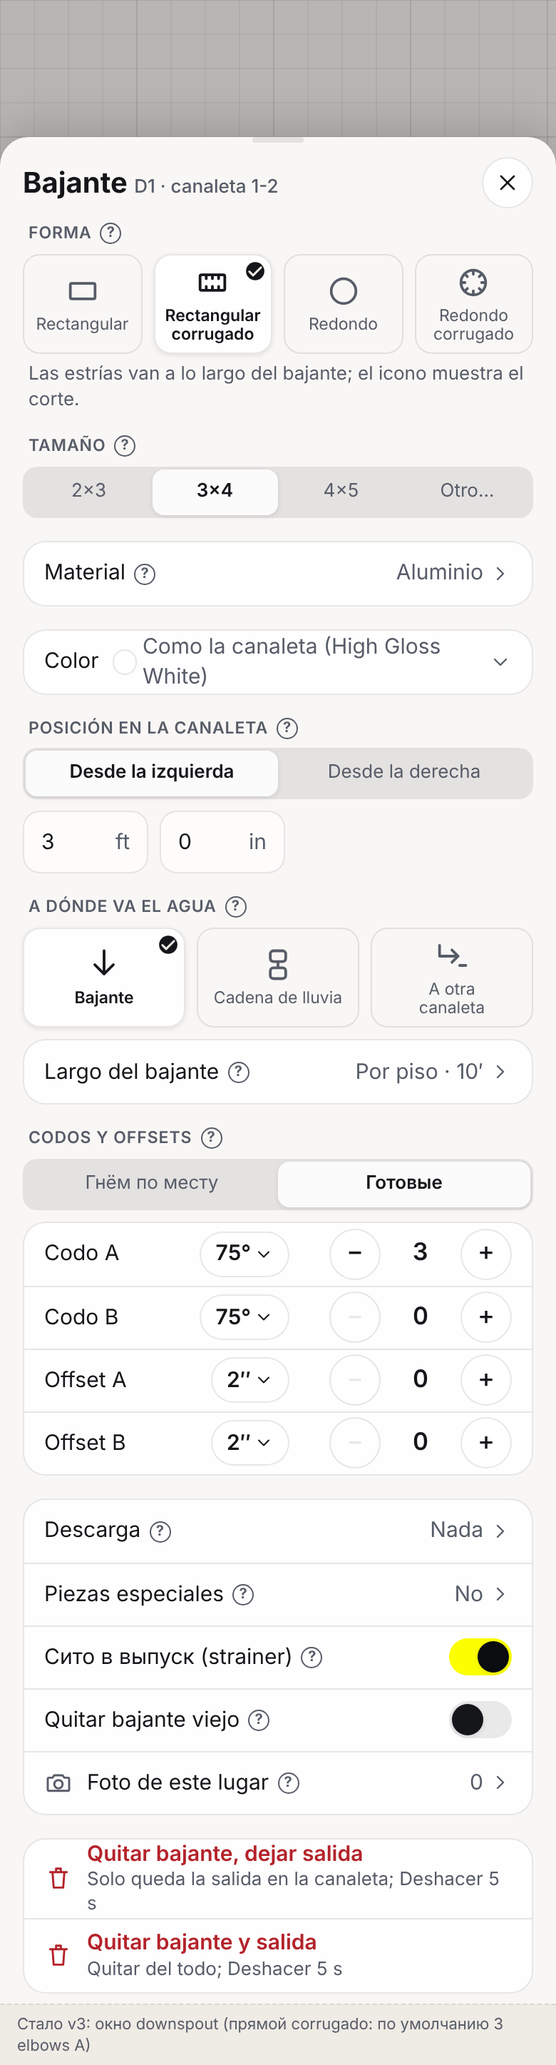
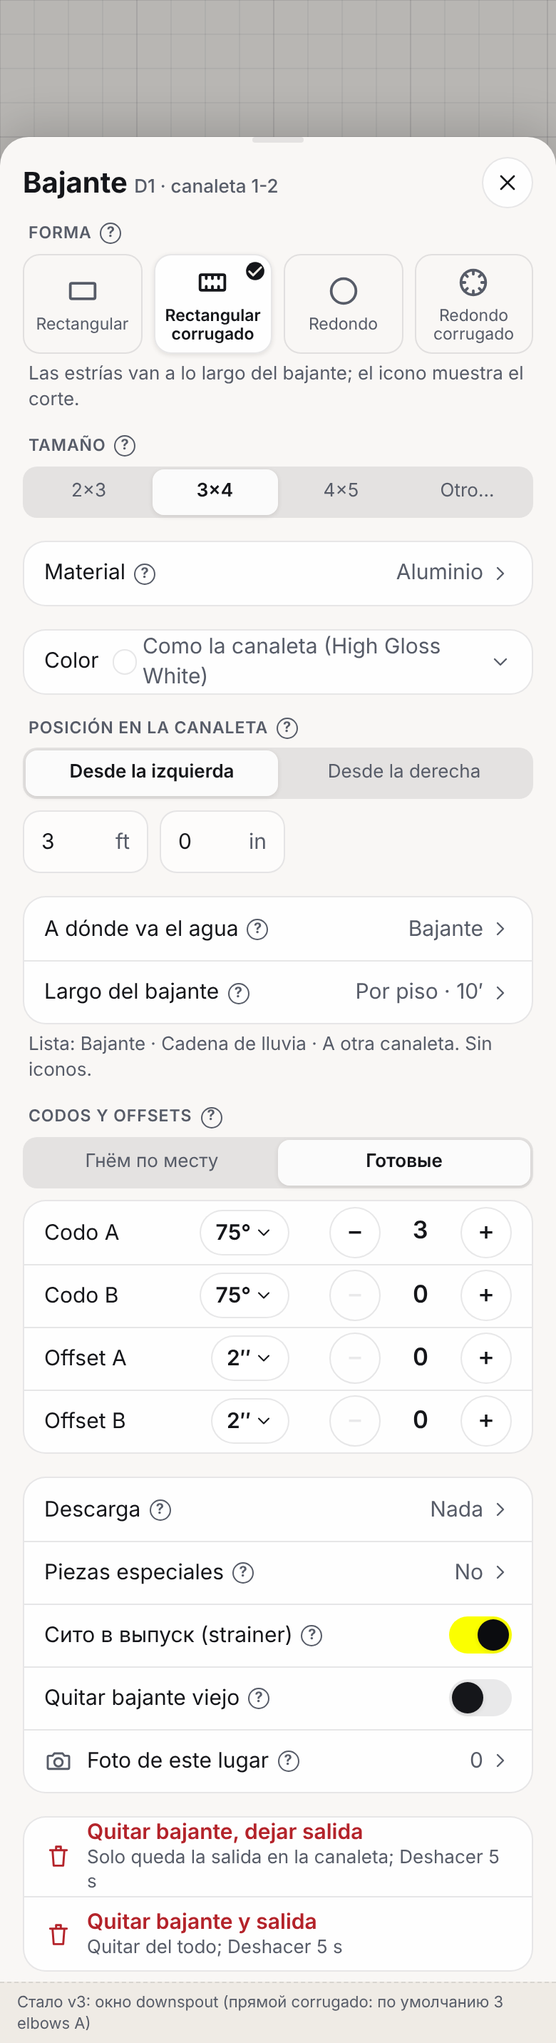
docs(gutters): окно Downspout — «Куда уходит вода» списком без значков (основатель 16.11 ~06:45), §3.15
Claude-Session: https://claude.ai/code/session_015CqH66DzhVPrbpJt18Umgo

diff --git a/docs/prototypes/gutters-windows/i18n.js b/docs/prototypes/gutters-windows/i18n.js
@@ -1,7 +1,7 @@
 // Перевод прототипа (EN/ES): термины отрасли — downspout, elbow A/B, offset, leader head, wedge. ?l=en|es
 window.I18N={
-en:{"Прибавка на этот угол: ":"Allowance for this corner: ","— уже в закупке рулона, отдельно не добавляйте. Запас рулона: 1 линия +3 ft, 2 и больше +6 ft (настройки).":"— already in the coil order, don't add it yourself. Coil waste: 1 run +3 ft, 2 or more +6 ft (settings).","Снять старый downspout":"Remove old downspout","Вид":"Type","Демонтаж":"Tear-off","Снять старый gutter":"Remove old gutter","Была защита — снять":"Remove old guard","Список: Нет · Микросетка · Перфорированный · На защёлке · Откидная · Сетка на раме · Козырёк. Пены и ёршиков нет.":"List: None · Micro-mesh · Perforated · Snap-in · Hinged · Framed screen · Reverse curve. No foam or brush.","Downspout":"Downspout","gutter":"gutter","Gutter":"Gutter","Форма":"Shape","Прямой ребристый":"Rect. corrugated","Прямой":"Rectangular","Круглый ребристый":"Round corrugated","Круглый":"Round","ребристый":"corrugated","Рёбра — вдоль downspout; на значке — вид в разрезе.":"Ribs run along the downspout; the icon shows a cross-section.","Размер":"Size","Другой…":"Custom…","Материал":"Material","Алюминий":"Aluminum","Медь":"Copper","Цвет":"Color","Как у gutter (High Gloss White)":"Same as gutter (High Gloss White)","Где на gutter":"Position on gutter","От левого end cap":"From left end cap","От правой":"From right","Куда уходит вода":"Where water goes","Цепь":"Rain chain","В другой":"Into another","Длина downspout":"Downspout length","По этажу":"By story","Elbows и офсеты":"Elbows and offsets","Гнём по месту":"Bent on site","Сито в выпуск (strainer)":"Outlet strainer","Защита от листьев (gutter guard)":"Gutter guard","Сетка":"Screen","Микросетка":"Micro-mesh","Защёлка":"Snap-in","Сколько закрыть":"Covered length","Весь gutter":"Whole gutter","Пайка меди":"Copper soldering","Готовые":"Pre-made","Elbow A":"Elbow A","Elbow B":"Elbow B","Офсет A":"Offset A","Офсет B":"Offset B","Elbow":"Elbow","Офсет":"Offset","Низ downspout":"Discharge","Ничего":"None","Редкие детали":"Specialty fittings","Нет":"None","Фото этого места":"Photo of this spot","Удалить downspout, оставить выпуск":"Remove downspout, keep outlet","Останется только выпуск в gutter; «Отменить» 5 с":"Only the outlet stays in the gutter; Undo for 5 s","Удалить downspout и выпуск":"Remove downspout and outlet","Убрать совсем; «Отменить» 5 с":"Remove completely; Undo for 5 s","Профиль":"Profile","Полу-":"Half-","круглый":"round","Значки — вид в разрезе.":"Icons show cross-sections.","Этаж":"Story","Длина":"Length","Шкала":"Tape","На рисунке 21′ 4″, введено 21′ 8½″ — в расчёт идёт введённое.":"Drawn 21′ 4″, entered 21′ 8½″ — the entered length is used.","Крепление":"Mounting","Крепится к":"Mounted to","Доске (fascia)":"Fascia","Кронштейны":"Hangers","Подходящие кронштейны":"Suggested hangers","От этого зависят кронштейны.":"This decides the hangers.","Лобовая доска (fascia)":"Fascia board","обычный случай: на доску по краю крыши":"the usual case: on the board at the roof edge","Стропила (rafter tail)":"Rafter tails","доски нет — на концы стропил":"no fascia — on the rafter ends","Под кровлю (roof strap)":"Roof strap","доски нет — лентой под кровельный материал":"no fascia — strap under the roofing","Карниз (crown moulding)":"Crown molding","на фигурный карниз":"on decorative molding","доска стоит под углом":"the board is angled","Наклонная доска":"Angled fascia","Клиновая подкладка (wedge)?":"Use a wedge?","Кронштейны сами не меняем — предлагаем.":"We suggest hangers, we never change them for you.","Ничего":"None","Удалить gutter":"Delete gutter","Назад":"Back","Что ставим у земли, где вода выходит из downspout.":"What goes at the ground where the water comes out.","downspout заканчивается elbow":"ends with an elbow","Удлинитель":"Extension","жёсткий, отводит воду от стены":"rigid, carries water away from the wall","Гибкий рукав":"Flex extension","гофрированный, складывается":"corrugated, folds","Откидной (flip-up)":"Flip-up","поднимается, чтобы не мешал":"lifts out of the way","Отбойная плита (splash block)":"Splash block","лоток под elbow":"tray under the elbow","Ввод в дренаж (drain adapter)":"Drain adapter","переходник в дренаж в земле":"into the underground drain","Pop-up emitter":"Pop-up emitter","выпуск в газоне, открывается водой":"opens in the lawn with water","Бочка":"Rain barrel","вода в бочку для полива":"water into a barrel","Чугунный boot":"Cast iron boot","коммерческий, в землю":"commercial, into the ground","На нижнюю крышу":"Onto lower roof","вода стекает на крышу ниже":"water runs onto the roof below","Ставятся по случаю. Нужно — поставьте число.":"Used now and then. Set a number when needed.","Переходное elbow A→B":"Transition elbow A→B","поворот и вбок одной деталью":"turn and side in one piece","Y-тройник":"Wye","два downspout в один":"two downspouts into one","Воронка (funnel)":"Funnel","сверху downspout под выпуском":"on top of the downspout under the outlet","Редуктор":"Reducer","переход на меньший размер downspout":"to a smaller downspout size","Cleanout":"Cleanout","люк для прочистки downspout":"opening to clean the downspout","Отвод в бочку (diverter)":"Rain diverter","часть воды в бочку":"part of the water to a barrel","Сито в выпуск (strainer)":"Outlet strainer","сетка, чтобы листья не забивали":"keeps leaves out","Leader head (conductor head)":"Leader head","короб-воронка на стене сверху":"box at the top on the wall","Стена":"Wall","Дерево":"Wood","Кирпич / блок":"Brick / block","Другое":"Other","Креплений":"Straps","правило: 2 на 10 ft downspout":"rule: 2 per 10 ft of downspout","Измерить угол":"Measure angle","1. От вершины угла (где сходятся доски) отмерьте 24″ по каждой стороне и поставьте метки. 2. Рулеткой измерьте расстояние между метками — это C.":"1. From the corner (where the boards meet) measure 24″ along each side and mark. 2. Tape the distance between the marks — that is C.","вершина угла":"corner","метка":"mark","C — рулеткой":"C — with a tape","угол = arccos((A² + B² − C²) / (2·A·B))":"angle = arccos((A² + B² − C²) / (2·A·B))","Пример: A = 24″, B = 24″, C = 33 15⁄16″ →":"Example: A = 24″, B = 24″, C = 33 15⁄16″ →","C — между метками":"C — between the marks","A и B":"A and B","24″ и 24″ — изменить":"24″ and 24″ — change","Угол":"Angle","Поставить угол 90°":"Set angle 90°","D1 · gutter 1-2":"D1 · gutter 1-2"},
-es:{"Прибавка на этот угол: ":"Margen para esta esquina: ","— уже в закупке рулона, отдельно не добавляйте. Запас рулона: 1 линия +3 ft, 2 и больше +6 ft (настройки).":"— ya incluido en el pedido de bobina, no lo agregue. Reserva de bobina: 1 tramo +3 ft, 2 o más +6 ft (ajustes).","Снять старый downspout":"Quitar bajante viejo","Вид":"Tipo","Демонтаж":"Desmontaje","Снять старый gutter":"Quitar canaleta vieja","Была защита — снять":"Quitar protección vieja","Микросетка":"Micromalla","Список: Нет · Микросетка · Перфорированный · На защёлке · Откидная · Сетка на раме · Козырёк. Пены и ёршиков нет.":"Lista: Ninguna · Micromalla · Perforada · A presión · Abatible · Malla con marco · Curva inversa. Sin espuma ni cepillo.","Downspout":"Bajante","gutter":"canaleta","Gutter":"Canaleta","Форма":"Forma","Прямой ребристый":"Rect. corrugado","Прямой":"Rectangular","Круглый ребристый":"Redondo corrugado","Круглый":"Redondo","ребристый":"corrugado","Рёбра — вдоль downspout; на значке — вид в разрезе.":"Las estrías van a lo largo del bajante; el icono muestra el corte.","Размер":"Tamaño","Другой…":"Otro…","Материал":"Material","Алюминий":"Aluminio","Медь":"Cobre","Цвет":"Color","Как у gutter (High Gloss White)":"Como la canaleta (High Gloss White)","Где на gutter":"Posición en la canaleta","От левого end cap":"Desde la izquierda","От правой":"Desde la derecha","Куда уходит вода":"A dónde va el agua","Цепь":"Cadena de lluvia","В другой":"A otra","Длина downspout":"Largo del bajante","По этажу":"Por piso","Elbows и офсеты":"Codos y offsets","Elbow A":"Codo A","Elbow B":"Codo B","Офсет A":"Offset A","Офсет B":"Offset B","Низ downspout":"Descarga","Ничего":"Nada","Редкие детали":"Piezas especiales","Нет":"No","Фото этого места":"Foto de este lugar","Удалить downspout, оставить выпуск":"Quitar bajante, dejar salida","Останется только выпуск в gutter; «Отменить» 5 с":"Solo queda la salida en la canaleta; Deshacer 5 s","Удалить downspout и выпуск":"Quitar bajante y salida","Убрать совсем; «Отменить» 5 с":"Quitar del todo; Deshacer 5 s","D1 · gutter 1-2":"D1 · canaleta 1-2"}
+en:{"Список: Downspout · Rain chain · В другой gutter. Без значков (основатель 16.11).":"List: Downspout · Rain chain · Into another gutter. No icons.","Прибавка на этот угол: ":"Allowance for this corner: ","— уже в закупке рулона, отдельно не добавляйте. Запас рулона: 1 линия +3 ft, 2 и больше +6 ft (настройки).":"— already in the coil order, don't add it yourself. Coil waste: 1 run +3 ft, 2 or more +6 ft (settings).","Снять старый downspout":"Remove old downspout","Вид":"Type","Демонтаж":"Tear-off","Снять старый gutter":"Remove old gutter","Была защита — снять":"Remove old guard","Список: Нет · Микросетка · Перфорированный · На защёлке · Откидная · Сетка на раме · Козырёк. Пены и ёршиков нет.":"List: None · Micro-mesh · Perforated · Snap-in · Hinged · Framed screen · Reverse curve. No foam or brush.","Downspout":"Downspout","gutter":"gutter","Gutter":"Gutter","Форма":"Shape","Прямой ребристый":"Rect. corrugated","Прямой":"Rectangular","Круглый ребристый":"Round corrugated","Круглый":"Round","ребристый":"corrugated","Рёбра — вдоль downspout; на значке — вид в разрезе.":"Ribs run along the downspout; the icon shows a cross-section.","Размер":"Size","Другой…":"Custom…","Материал":"Material","Алюминий":"Aluminum","Медь":"Copper","Цвет":"Color","Как у gutter (High Gloss White)":"Same as gutter (High Gloss White)","Где на gutter":"Position on gutter","От левого end cap":"From left end cap","От правой":"From right","Куда уходит вода":"Where water goes","Цепь":"Rain chain","В другой":"Into another","Длина downspout":"Downspout length","По этажу":"By story","Elbows и офсеты":"Elbows and offsets","Гнём по месту":"Bent on site","Сито в выпуск (strainer)":"Outlet strainer","Защита от листьев (gutter guard)":"Gutter guard","Сетка":"Screen","Микросетка":"Micro-mesh","Защёлка":"Snap-in","Сколько закрыть":"Covered length","Весь gutter":"Whole gutter","Пайка меди":"Copper soldering","Готовые":"Pre-made","Elbow A":"Elbow A","Elbow B":"Elbow B","Офсет A":"Offset A","Офсет B":"Offset B","Elbow":"Elbow","Офсет":"Offset","Низ downspout":"Discharge","Ничего":"None","Редкие детали":"Specialty fittings","Нет":"None","Фото этого места":"Photo of this spot","Удалить downspout, оставить выпуск":"Remove downspout, keep outlet","Останется только выпуск в gutter; «Отменить» 5 с":"Only the outlet stays in the gutter; Undo for 5 s","Удалить downspout и выпуск":"Remove downspout and outlet","Убрать совсем; «Отменить» 5 с":"Remove completely; Undo for 5 s","Профиль":"Profile","Полу-":"Half-","круглый":"round","Значки — вид в разрезе.":"Icons show cross-sections.","Этаж":"Story","Длина":"Length","Шкала":"Tape","На рисунке 21′ 4″, введено 21′ 8½″ — в расчёт идёт введённое.":"Drawn 21′ 4″, entered 21′ 8½″ — the entered length is used.","Крепление":"Mounting","Крепится к":"Mounted to","Доске (fascia)":"Fascia","Кронштейны":"Hangers","Подходящие кронштейны":"Suggested hangers","От этого зависят кронштейны.":"This decides the hangers.","Лобовая доска (fascia)":"Fascia board","обычный случай: на доску по краю крыши":"the usual case: on the board at the roof edge","Стропила (rafter tail)":"Rafter tails","доски нет — на концы стропил":"no fascia — on the rafter ends","Под кровлю (roof strap)":"Roof strap","доски нет — лентой под кровельный материал":"no fascia — strap under the roofing","Карниз (crown moulding)":"Crown molding","на фигурный карниз":"on decorative molding","доска стоит под углом":"the board is angled","Наклонная доска":"Angled fascia","Клиновая подкладка (wedge)?":"Use a wedge?","Кронштейны сами не меняем — предлагаем.":"We suggest hangers, we never change them for you.","Ничего":"None","Удалить gutter":"Delete gutter","Назад":"Back","Что ставим у земли, где вода выходит из downspout.":"What goes at the ground where the water comes out.","downspout заканчивается elbow":"ends with an elbow","Удлинитель":"Extension","жёсткий, отводит воду от стены":"rigid, carries water away from the wall","Гибкий рукав":"Flex extension","гофрированный, складывается":"corrugated, folds","Откидной (flip-up)":"Flip-up","поднимается, чтобы не мешал":"lifts out of the way","Отбойная плита (splash block)":"Splash block","лоток под elbow":"tray under the elbow","Ввод в дренаж (drain adapter)":"Drain adapter","переходник в дренаж в земле":"into the underground drain","Pop-up emitter":"Pop-up emitter","выпуск в газоне, открывается водой":"opens in the lawn with water","Бочка":"Rain barrel","вода в бочку для полива":"water into a barrel","Чугунный boot":"Cast iron boot","коммерческий, в землю":"commercial, into the ground","На нижнюю крышу":"Onto lower roof","вода стекает на крышу ниже":"water runs onto the roof below","Ставятся по случаю. Нужно — поставьте число.":"Used now and then. Set a number when needed.","Переходное elbow A→B":"Transition elbow A→B","поворот и вбок одной деталью":"turn and side in one piece","Y-тройник":"Wye","два downspout в один":"two downspouts into one","Воронка (funnel)":"Funnel","сверху downspout под выпуском":"on top of the downspout under the outlet","Редуктор":"Reducer","переход на меньший размер downspout":"to a smaller downspout size","Cleanout":"Cleanout","люк для прочистки downspout":"opening to clean the downspout","Отвод в бочку (diverter)":"Rain diverter","часть воды в бочку":"part of the water to a barrel","Сито в выпуск (strainer)":"Outlet strainer","сетка, чтобы листья не забивали":"keeps leaves out","Leader head (conductor head)":"Leader head","короб-воронка на стене сверху":"box at the top on the wall","Стена":"Wall","Дерево":"Wood","Кирпич / блок":"Brick / block","Другое":"Other","Креплений":"Straps","правило: 2 на 10 ft downspout":"rule: 2 per 10 ft of downspout","Измерить угол":"Measure angle","1. От вершины угла (где сходятся доски) отмерьте 24″ по каждой стороне и поставьте метки. 2. Рулеткой измерьте расстояние между метками — это C.":"1. From the corner (where the boards meet) measure 24″ along each side and mark. 2. Tape the distance between the marks — that is C.","вершина угла":"corner","метка":"mark","C — рулеткой":"C — with a tape","угол = arccos((A² + B² − C²) / (2·A·B))":"angle = arccos((A² + B² − C²) / (2·A·B))","Пример: A = 24″, B = 24″, C = 33 15⁄16″ →":"Example: A = 24″, B = 24″, C = 33 15⁄16″ →","C — между метками":"C — between the marks","A и B":"A and B","24″ и 24″ — изменить":"24″ and 24″ — change","Угол":"Angle","Поставить угол 90°":"Set angle 90°","D1 · gutter 1-2":"D1 · gutter 1-2"},
+es:{"Список: Downspout · Rain chain · В другой gutter. Без значков (основатель 16.11).":"Lista: Bajante · Cadena de lluvia · A otra canaleta. Sin iconos.","Прибавка на этот угол: ":"Margen para esta esquina: ","— уже в закупке рулона, отдельно не добавляйте. Запас рулона: 1 линия +3 ft, 2 и больше +6 ft (настройки).":"— ya incluido en el pedido de bobina, no lo agregue. Reserva de bobina: 1 tramo +3 ft, 2 o más +6 ft (ajustes).","Снять старый downspout":"Quitar bajante viejo","Вид":"Tipo","Демонтаж":"Desmontaje","Снять старый gutter":"Quitar canaleta vieja","Была защита — снять":"Quitar protección vieja","Микросетка":"Micromalla","Список: Нет · Микросетка · Перфорированный · На защёлке · Откидная · Сетка на раме · Козырёк. Пены и ёршиков нет.":"Lista: Ninguna · Micromalla · Perforada · A presión · Abatible · Malla con marco · Curva inversa. Sin espuma ni cepillo.","Downspout":"Bajante","gutter":"canaleta","Gutter":"Canaleta","Форма":"Forma","Прямой ребристый":"Rect. corrugado","Прямой":"Rectangular","Круглый ребристый":"Redondo corrugado","Круглый":"Redondo","ребристый":"corrugado","Рёбра — вдоль downspout; на значке — вид в разрезе.":"Las estrías van a lo largo del bajante; el icono muestra el corte.","Размер":"Tamaño","Другой…":"Otro…","Материал":"Material","Алюминий":"Aluminio","Медь":"Cobre","Цвет":"Color","Как у gutter (High Gloss White)":"Como la canaleta (High Gloss White)","Где на gutter":"Posición en la canaleta","От левого end cap":"Desde la izquierda","От правой":"Desde la derecha","Куда уходит вода":"A dónde va el agua","Цепь":"Cadena de lluvia","В другой":"A otra","Длина downspout":"Largo del bajante","По этажу":"Por piso","Elbows и офсеты":"Codos y offsets","Elbow A":"Codo A","Elbow B":"Codo B","Офсет A":"Offset A","Офсет B":"Offset B","Низ downspout":"Descarga","Ничего":"Nada","Редкие детали":"Piezas especiales","Нет":"No","Фото этого места":"Foto de este lugar","Удалить downspout, оставить выпуск":"Quitar bajante, dejar salida","Останется только выпуск в gutter; «Отменить» 5 с":"Solo queda la salida en la canaleta; Deshacer 5 s","Удалить downspout и выпуск":"Quitar bajante y salida","Убрать совсем; «Отменить» 5 с":"Quitar del todo; Deshacer 5 s","D1 · gutter 1-2":"D1 · canaleta 1-2"}
 };
 window.translatePage=function(l){const d=window.I18N[l];if(!d)return;const keys=Object.keys(d).sort((a,b)=>b.length-a.length);
 const w=document.createTreeWalker(document.body,NodeFilter.SHOW_TEXT);const ns=[];while(w.nextNode())ns.push(w.currentNode);

diff --git a/docs/prototypes/gutters-windows/index.html b/docs/prototypes/gutters-windows/index.html
@@ -141,7 +141,7 @@ if(F==='ds'||F==='ds-copper'||F==='ds-deg'||F==='ds-plain'){
  <div class="grp ${cu?'disabled':''}">${row('Цвет','',{ctrl:`<span class="v"><i style="width:18px;height:18px;border-radius:9px;background:#FFFFFF;border:1px solid var(--bd);display:inline-block"></i>${cu?'—':'Как у gutter (High Gloss White)'}${ic('cd',16)}</span>`})}</div>${cu?`<div class="note" style="margin-top:-8px">Медь, цинк и нержавейку не красят — цвет не выбирается.</div>`:''}
  ${cu?`<div class="grp">${row('Пайка меди'+qm,'7 позиций',{sub:'добавится в смету сама: припой, флюс, заклёпки…',icon:'note'})}</div>`:''}
  <div><div class="lbl">Где на gutter${qm}</div>${seg(['От левого end cap','От правой'],0)}<div style="display:flex;gap:8px;align-items:center;margin-top:8px">${fin('3','ft')}${fin('0','in')}</div></div>
- <div><div class="lbl">Куда уходит вода${qm}</div><div class="tiles c3" style="grid-template-columns:repeat(3,1fr)">${tile('down','Downspout',true)}${tile('chain','Цепь')}${tile('toGut','В другой<br>gutter')}</div><div class="grp" style="margin-top:8px">${row('Длина downspout'+qm,'По этажу · 10′')}</div></div>
+ <div><div class="grp">${row('Куда уходит вода'+qm,'Downspout')}${row('Длина downspout'+qm,'По этажу · 10′')}</div><div class="note">Список: Downspout · Rain chain · В другой gutter. Без значков (основатель 16.11).</div></div>
  <div><div class="lbl">Elbows и офсеты${qm}</div>${cu?'':`<div style="margin-bottom:8px">${seg(['Гнём по месту','Готовые'],pl?0:1)}</div>`}<div class="grp">${cu?elb('Elbow','75°',0)+elb('Офсет','2″',0):pl?elb('Elbow A','75°',2)+elb('Elbow B','75°',1)+elb('Офсет A','2″',0)+elb('Офсет B','2″',0):elb('Elbow A','75°',3)+elb('Elbow B','75°',0)+elb('Офсет A','2″',0)+elb('Офсет B','2″',0)}</div>${pl?'<div class="note">Из самого downspout: в закупку не идут. В смету — +6″ длины downspout на elbow и работа за elbow (настройка компании).</div>':''}</div>
  <div class="grp">${row('Низ downspout'+qm,'Ничего')}${row('Редкие детали'+qm,'Нет')}${row('Сито в выпуск (strainer)'+qm,'',{ctrl:'<span class="tog on"></span>'})}${row('Снять старый downspout'+qm,'',{ctrl:'<span class="tog"></span>'})}${row('Фото этого места'+qm,'0',{icon:'camera'})}</div>
  <div class="grp"><div class="row del sub">${ic('trash',20,k('badT'))}<div class="stack"><span>Удалить downspout, оставить выпуск</span><small>Останется только выпуск в gutter; «Отменить» 5 с</small></div></div><div class="row del sub">${ic('trash',20,k('badT'))}<div class="stack"><span>Удалить downspout и выпуск</span><small>Убрать совсем; «Отменить» 5 с</small></div></div></div>`)+(F==='ds-deg'?`<div class="menu" style="left:110px;top:842px"><div>30°</div><div>45°</div><div>60°</div><div style="font-weight:600">75° ${ic('check',16)}</div><div>90°</div></div>`:'')+cap(pl?'Стало v4: гладкий — elbows гнут по месту из downspout':cu?'Стало v3: круглый медный — одно «Elbow» и один «Офсет», цвет выключен':F==='ds-deg'?'Стало v2: градус elbows — выбор по нажатию на «75°»':'Стало v3: окно downspout (прямой ребристый: по умолчанию 3 elbows A)');

diff --git a/docs/specs/33-gutters-windows.md b/docs/specs/33-gutters-windows.md
@@ -195,6 +195,12 @@
 - «?» у «Как делаем угол» — тот же смысл, полный текст — `33-gutters-consumption.md` §2.12 п.3.
 - Запас рулона 3 / 6 ft по виду рулона вместо 10 ft — `33-gutters-consumption.md` §2.12 п.2.
 
+### 3.15. Ответ основателя на v3 — 16.11 ~06:45 (передал руководитель №13)
+Слова основателя: «оставляем… всё, что сказал, измени, потом добавлю ещё правки, сейчас не готов». Окно называется «Downspout», названия деталей — как в прайсе поставщика. Про «Куда уходит вода»: «мы не делаем значки, как они меня раздражают… или селектор, или лист, или меню».
+- «Куда уходит вода» — строка-меню `SelectField` (А2) в группе с «Длина downspout»: Downspout · Rain chain · В другой gutter. Плитки со значками убраны (`after-ds`).
+- Новые правки основателя по холсту и окну Gutter ведёт Gutters №22 — сверяться с ним.
+- Числа расхода из этого ответа — `33-gutters-consumption.md` §2.15.
+
 ## 4. Данные и правило 16
 - Название черновика — `gutter_measurements.label` (есть). Миграции нет. Старые версии приложения поле не трогают (`ownFields` копирует `label`) — не затирают.
 - Толщина водостока — поле `gauge` остаётся в данных и движке; окно его не показывает; новый водосток берёт толщину по умолчанию материала (как сейчас).
